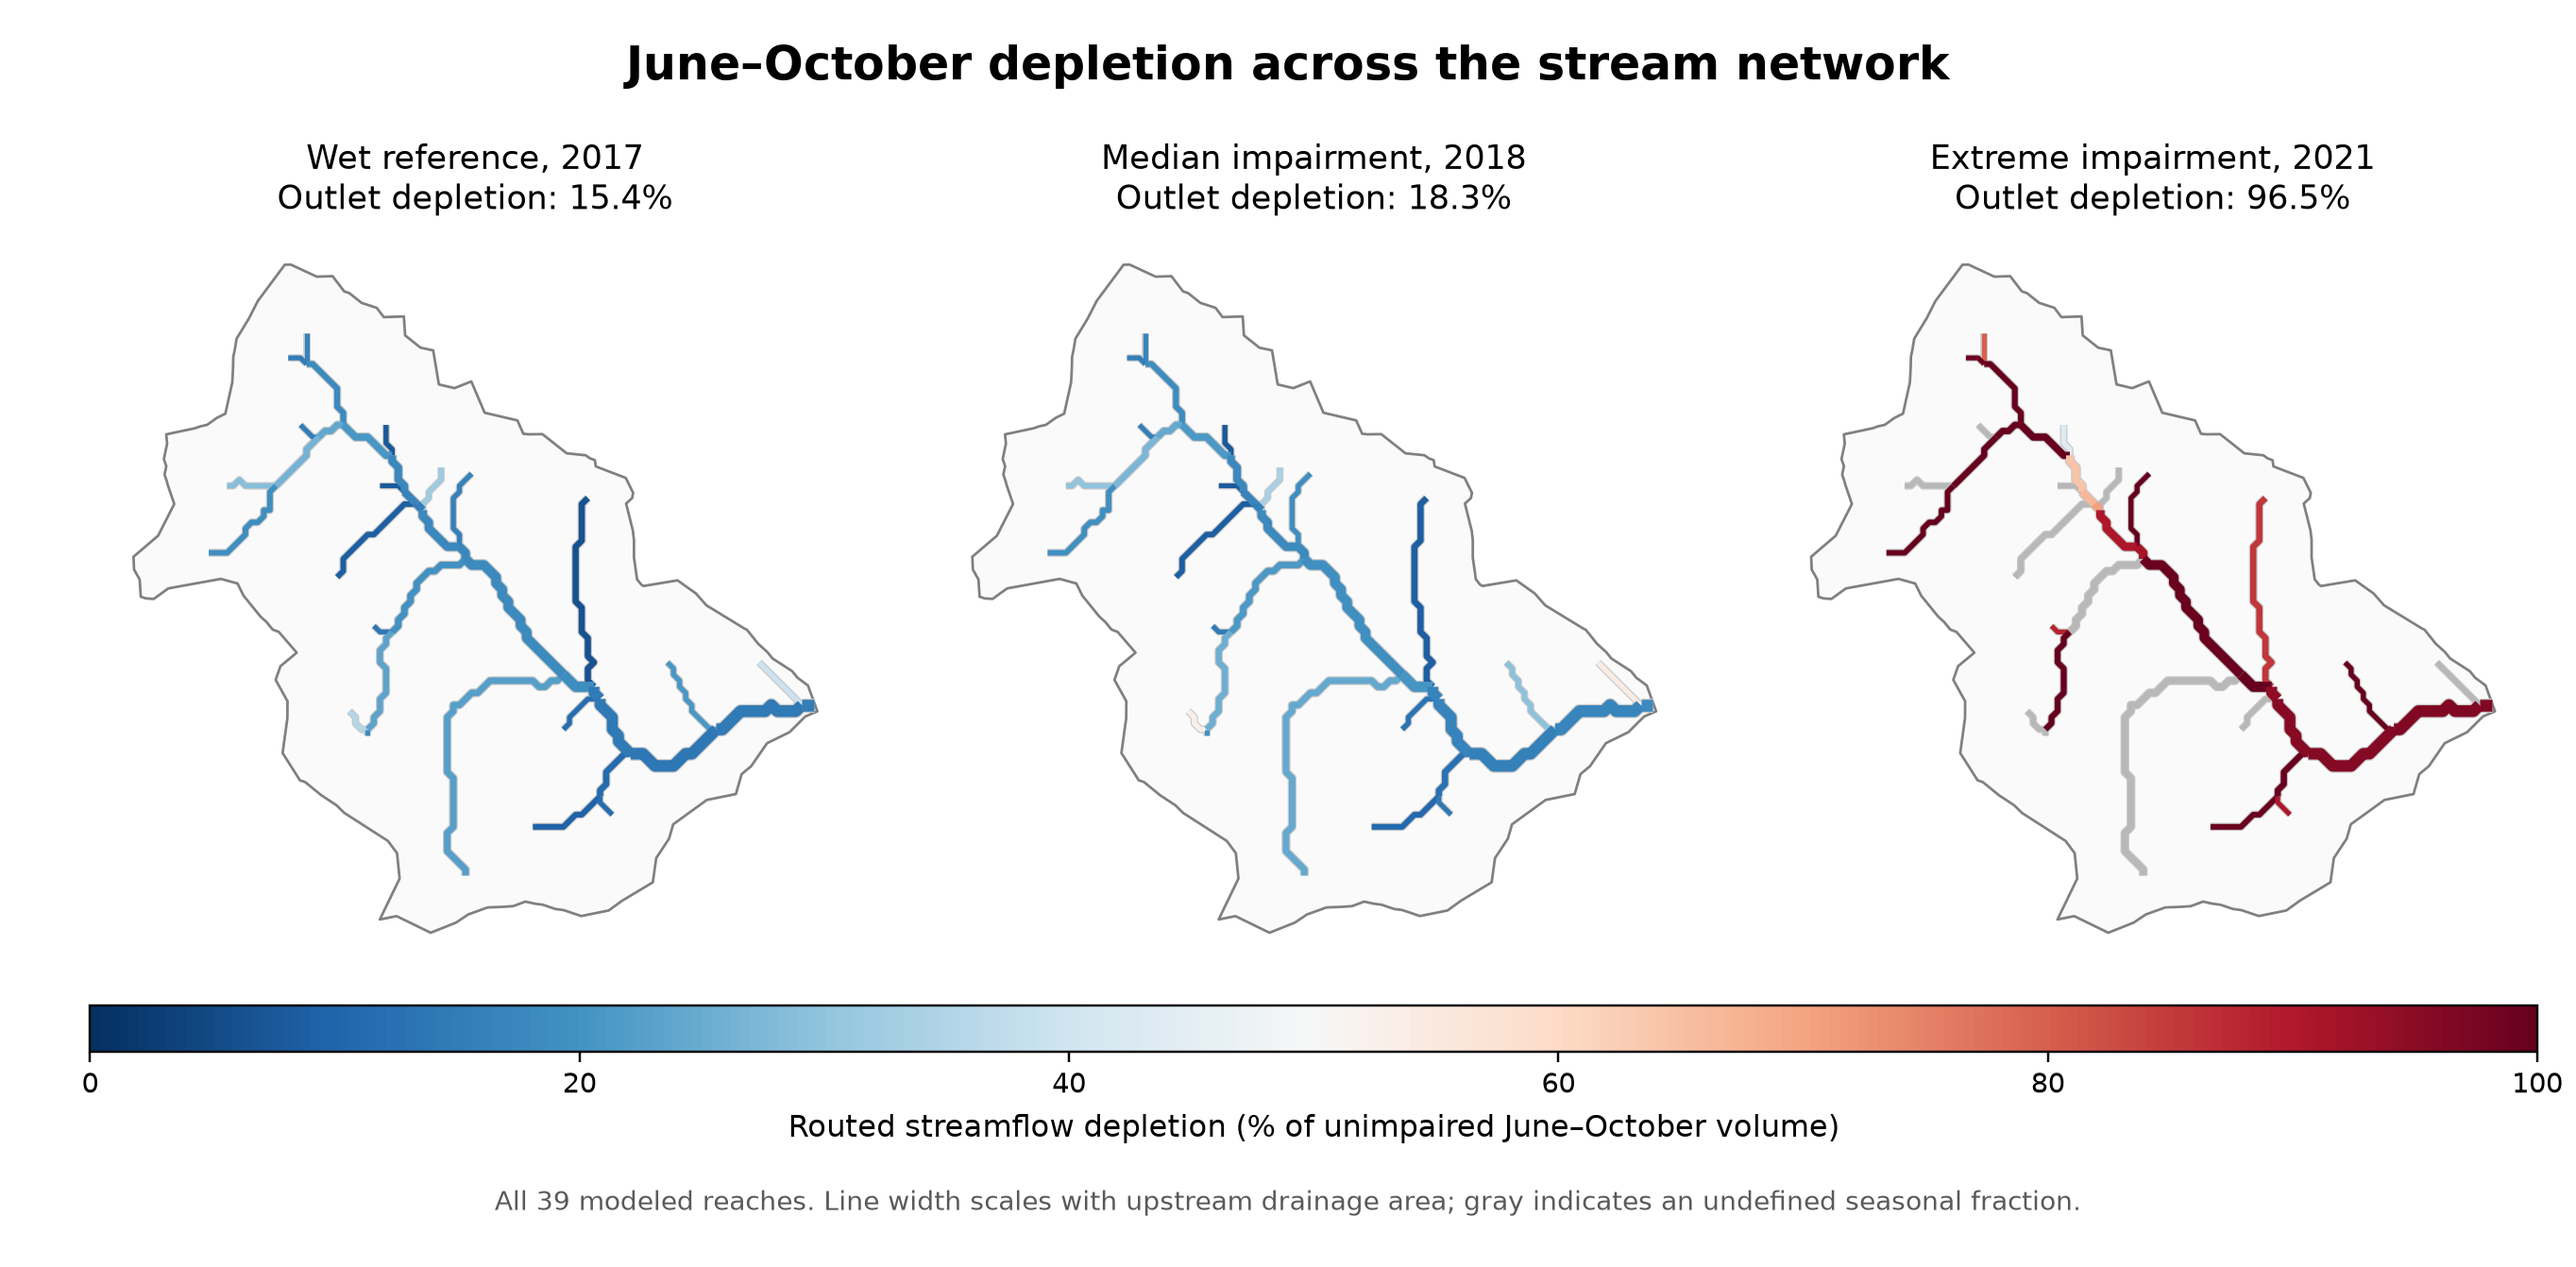
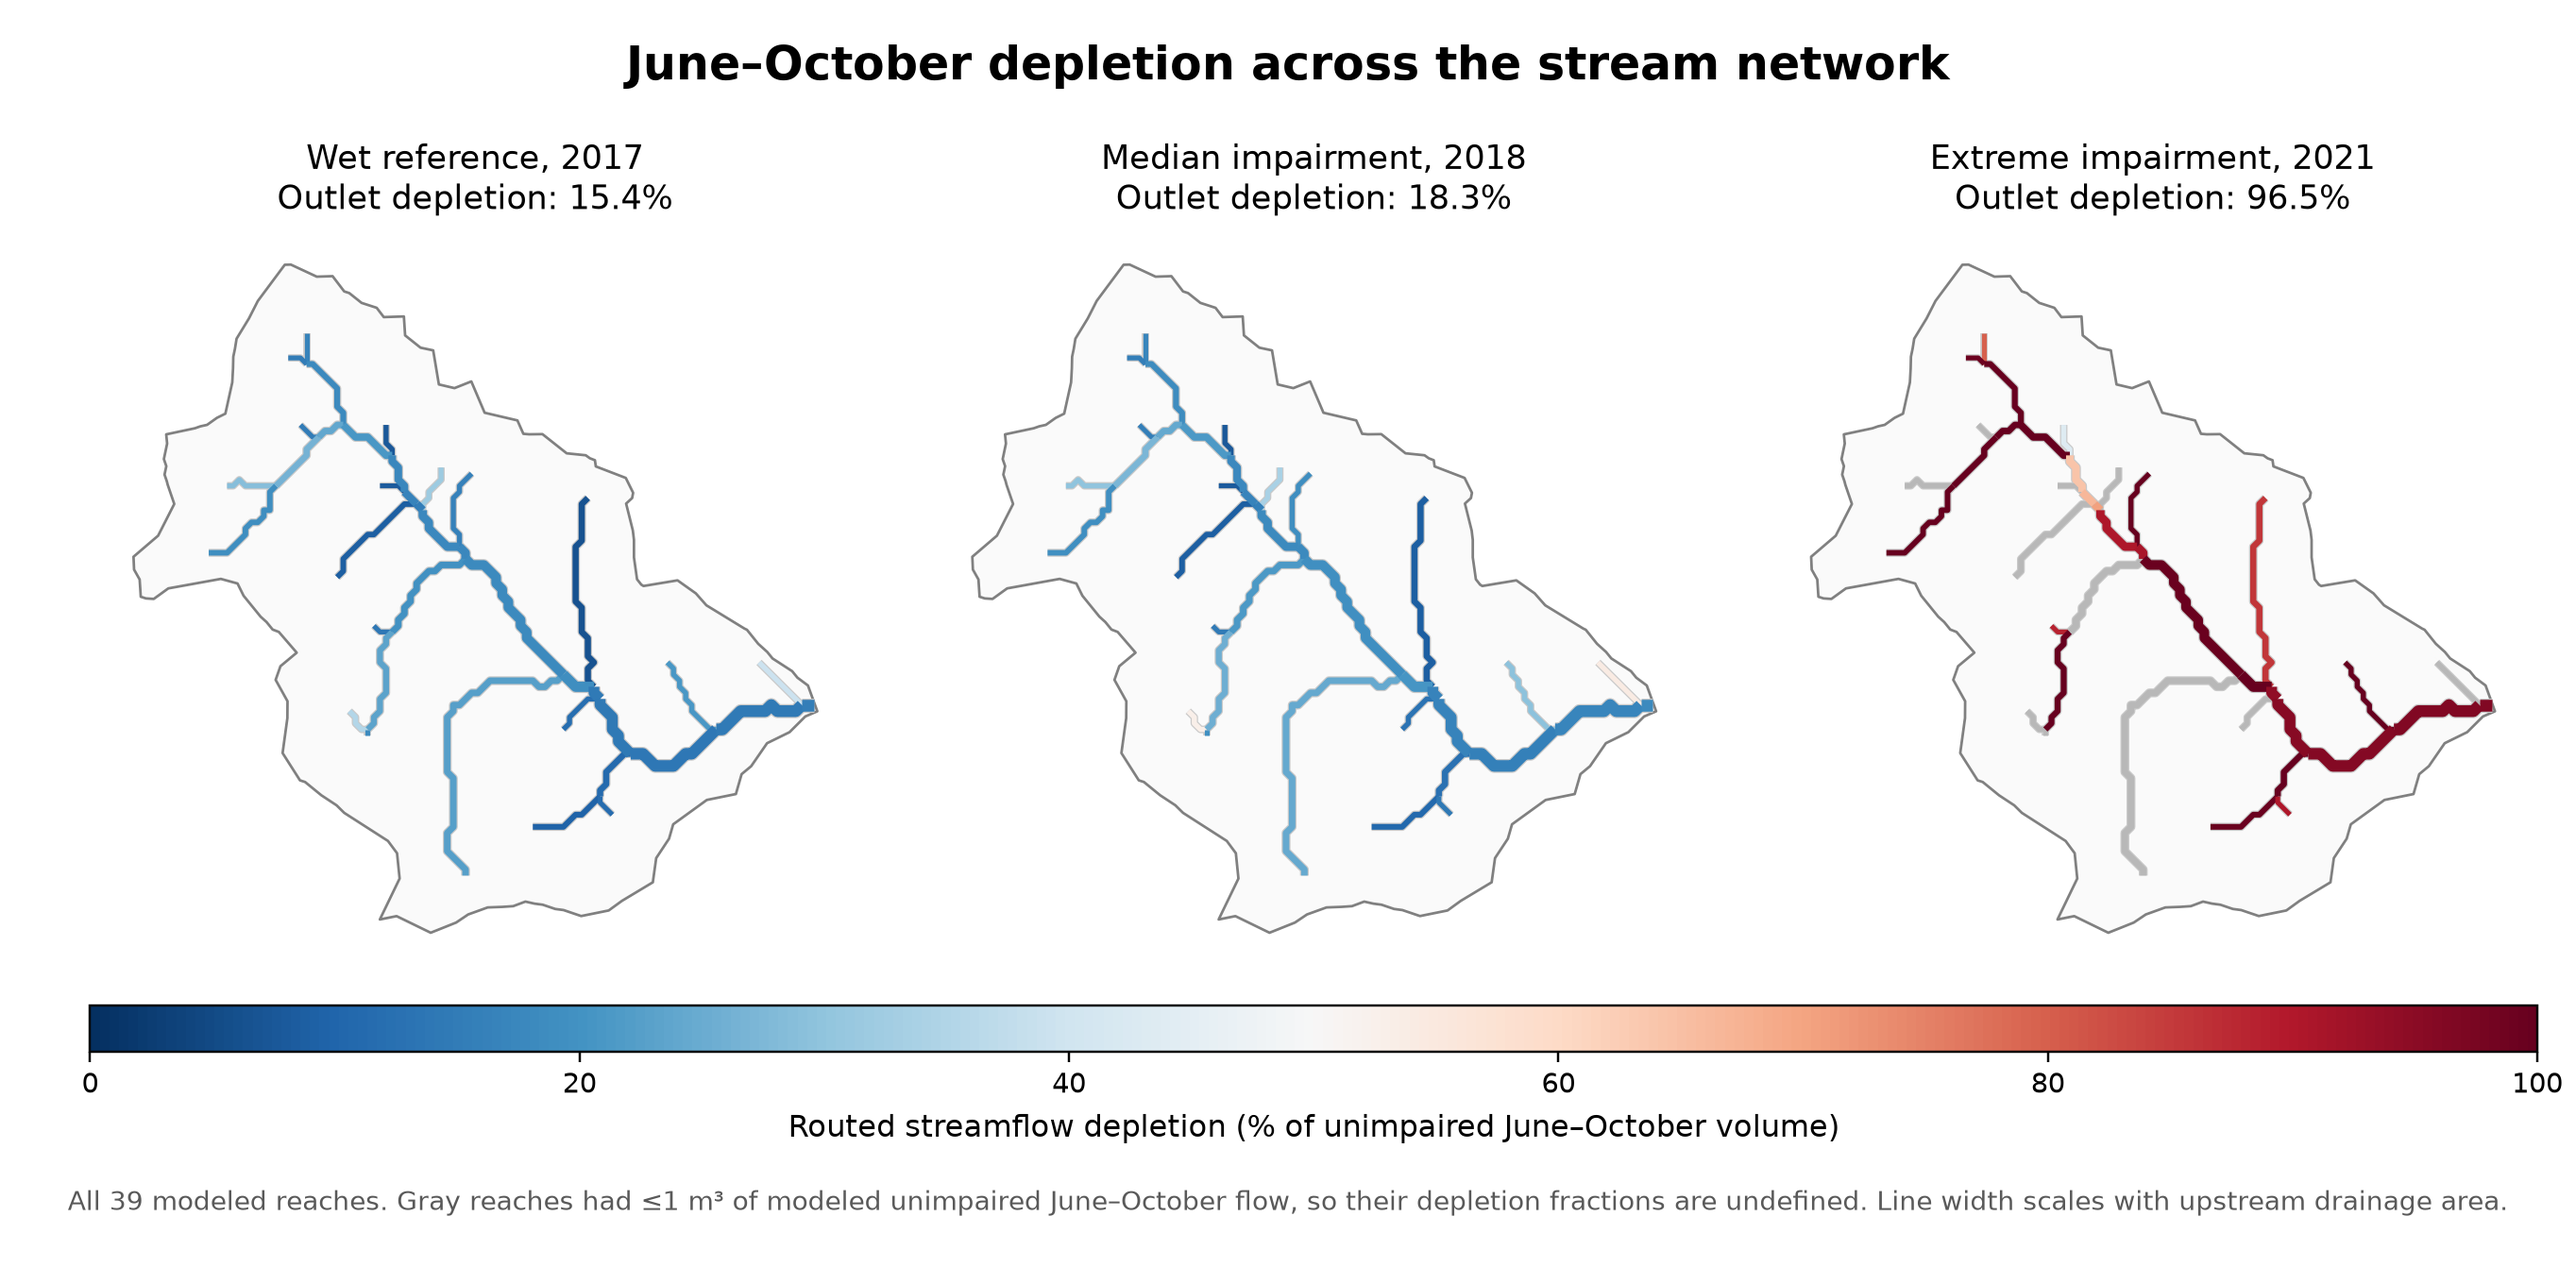
Clarify Green Valley reach figure annotations

Changed region(s): [[0.1558, 0.9165, 0.9659, 0.9776], [0.0623, 0.9471, 0.1246, 0.9776]]

diff --git a/example/plot_results.py b/example/plot_results.py
@@ -148,8 +148,9 @@ def save_dry_season_contrasts(
     fig.text(
         0.5,
         0.045,
-        "All 39 modeled reaches. Line width scales with upstream drainage area; "
-        "gray indicates an undefined seasonal fraction.",
+        "All 39 modeled reaches. Gray reaches had ≤1 m³ of modeled unimpaired "
+        "June–October flow, so their depletion fractions are undefined. Line width "
+        "scales with upstream drainage area.",
         ha="center",
         color="0.35",
         fontsize=9,
@@ -239,10 +240,16 @@ def save_response_distribution(
     if len(outlet_rows) != 1:
         raise ValueError("Expected exactly one outlet reach.")
     special_reaches = (
-        (GV01_REACH_ID, "GV01 reach", "D", "#187a3a"),
-        (int(outlet_rows.iloc[0]["reach_id"]), "Outlet reach", "*", "black"),
+        (GV01_REACH_ID, "GV01 reach", "D", "#187a3a", (0, -18)),
+        (
+            int(outlet_rows.iloc[0]["reach_id"]),
+            "Outlet reach",
+            "*",
+            "black",
+            (0, 13),
+        ),
     )
-    for reach_id, label, marker, color in special_reaches:
+    for reach_id, label, marker, color, label_offset in special_reaches:
         row = data.loc[data["reach_id"] == reach_id]
         if row.empty:
             raise ValueError(f"Reach {reach_id} is missing from the summary table.")
@@ -262,6 +269,21 @@ def save_response_distribution(
                 zorder=4,
                 label=label if axis is axes[1] else None,
             )
+            if axis is axes[0]:
+                axis.annotate(
+                    f"{label} (R{reach_id})",
+                    (
+                        x_value,
+                        row["integrated_routed_streamflow_depletion_fraction_pct"],
+                    ),
+                    xytext=label_offset,
+                    textcoords="offset points",
+                    ha="center",
+                    va="top" if label_offset[1] < 0 else "bottom",
+                    fontsize=8.5,
+                    color=color,
+                    zorder=5,
+                )
 
     axes[0].set_title("(a) Ranked depletion fractions", pad=10)
     axes[0].set_xlabel("Reach rank (largest fraction first)")
